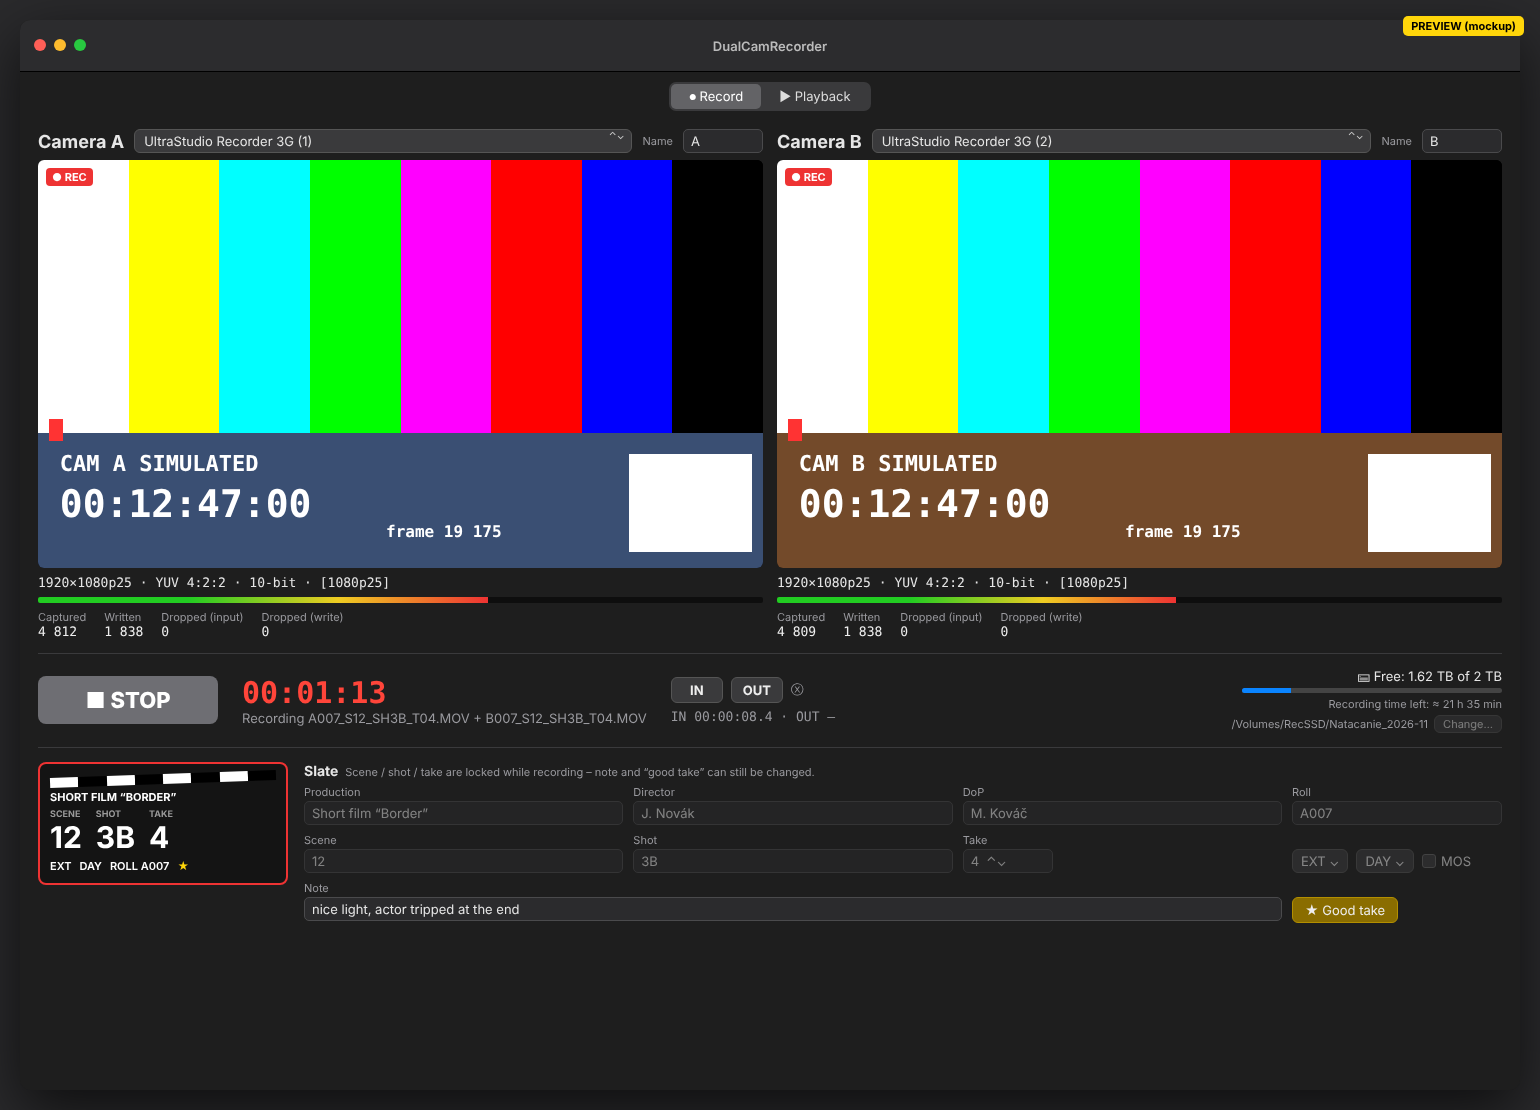
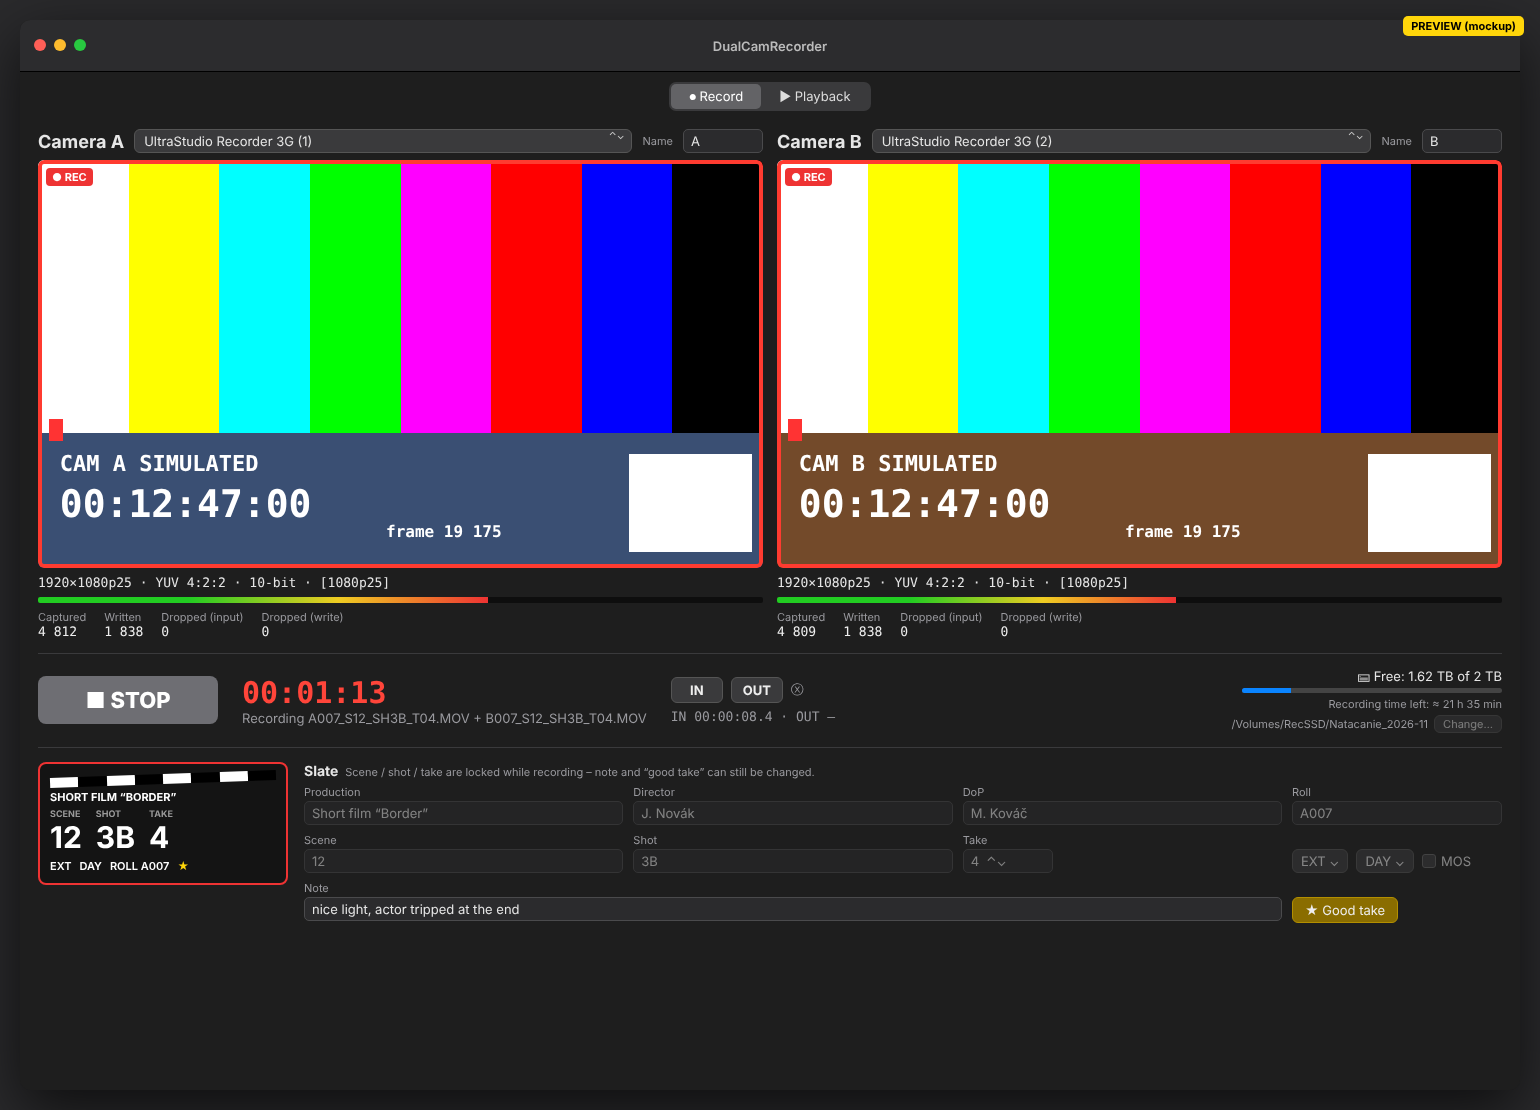
Show a red frame around each preview while that camera records
Claude-Session: https://claude.ai/code/session_01SjxyfTkJQH7RKsrkA8EJQA

Changed region(s): [[0.0312, 0.4901, 0.9662, 0.5207], [0.0312, 0.1225, 0.9662, 0.1532]]

diff --git a/DualCamRecorder/Views/RecordView.swift b/DualCamRecorder/Views/RecordView.swift
@@ -177,6 +177,13 @@ struct CameraPanel: View {
                 PreviewView(renderer: channel.preview)
                     .aspectRatio(16.0 / 9.0, contentMode: .fit)
                     .clipShape(RoundedRectangle(cornerRadius: 6))
+                    // Red frame around the picture while this camera is recording.
+                    .overlay(
+                        RoundedRectangle(cornerRadius: 6)
+                            .strokeBorder(Color.red, lineWidth: 4)
+                            .opacity(channel.isRecording ? 1 : 0)
+                            .animation(.easeInOut(duration: 0.15), value: channel.isRecording)
+                    )
                 HStack(spacing: 6) {
                     if channel.isRecording { Badge(text: "● REC", color: .red) }
                     if !channel.hasSource {
